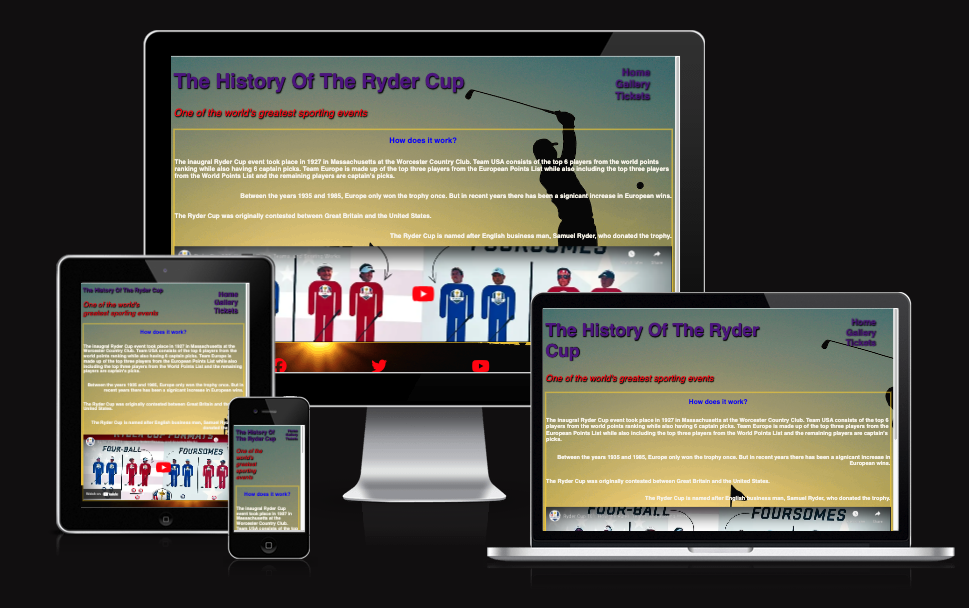
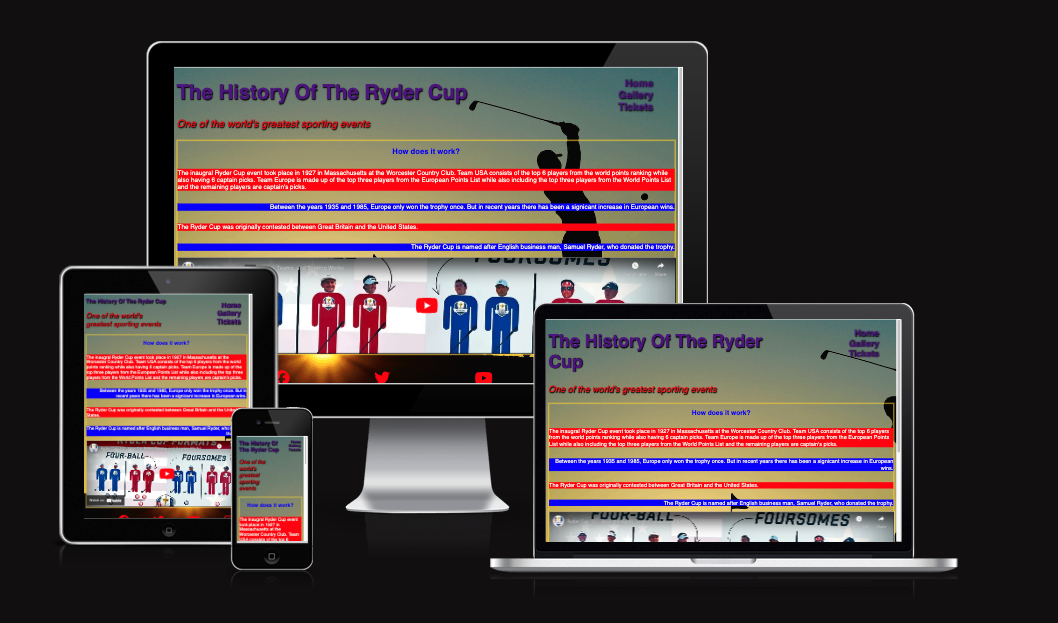
Update readme with relative screenshots

diff --git a/README.md b/README.md
@@ -30,7 +30,7 @@ Contains the heading and the navigation links for Home, Gallery and Ticket. The 
 
 I've added in some facts about the Ryder Cup and a short video to how the actual competition works. The font is white on red and blue backgrounds to make for better contrast and easier for the user to read. I originally had just blue and red text with no background and this was much harder to read.
 
-![Body of home page](assets/images/screenshot2readme.png)
+![Body of home page](assets/images/updatedsbodyscreenshot.png)
 
 - Footer
 
